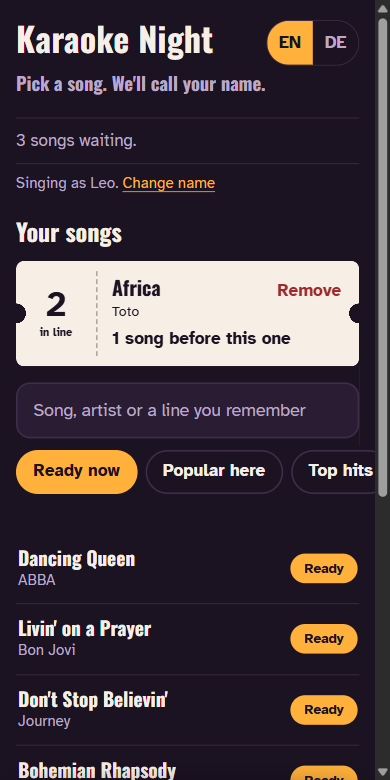
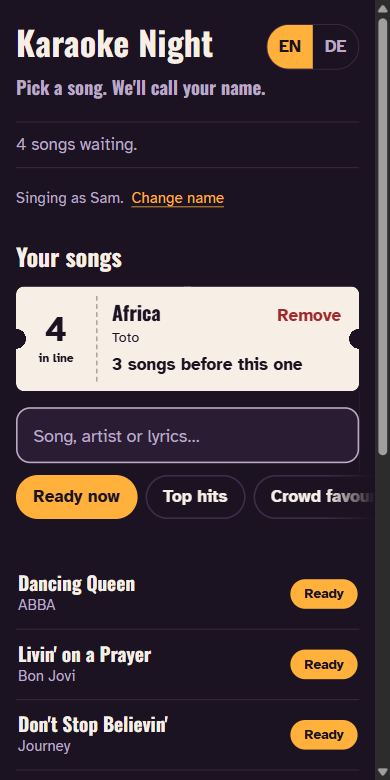
docs: changelog, bug report form, security notes and fresh screenshots for 1.2.0
- CHANGELOG.md for venues deciding whether to update (1.0.0 to 1.2.0).
- An issue form that asks for version and setup, and warns to strip the PIN,
  Wi-Fi password and guests' names from logs before posting.
- SECURITY.md: the per-night staff token and what lockouts now affect, the
  2 MB request limit, the per-phone cap, lint and accessibility checks, and how
  to verify a release (SHA256SUMS.txt, gh attestation verify).
- README: the PIN rule, where to read changes, the new development checks.
- Screenshots retaken: the TV showed guests on port 5000, which is now the
  private TV port.
- Staff page: text fields, selects and the colour picker get the readable
  outline too, and the logo picker no longer pushes the page sideways on phones.

diff --git a/static/admin.css b/static/admin.css
@@ -16,7 +16,7 @@ h2 { font: 400 1.4rem var(--display-font); margin: 24px 0 6px; }
 .lock { margin-top: 18vh; }
 .lock p { color: var(--muted); }
 .lock form { display: flex; gap: 10px; }
-.lock input { flex: 1; min-width: 0; min-height: 56px; font-size: 1.6rem; letter-spacing: .3em; text-align: center; border-radius: var(--radius); border: 2px solid var(--line); background: var(--surface); }
+.lock input { flex: 1; min-width: 0; min-height: 56px; font-size: 1.6rem; letter-spacing: .3em; text-align: center; border-radius: var(--radius); border: 2px solid var(--muted); background: var(--surface); }
 .lock input:focus { border-color: var(--accent); }
 
 .stage { background: var(--surface); border-radius: var(--radius); padding: 16px; margin-top: 12px; }
@@ -54,7 +54,7 @@ details.settings { background: var(--surface); border-radius: var(--radius); pad
 details.settings summary { font: 400 1.4rem var(--display-font); padding: 12px 0; min-height: 48px; cursor: pointer; }
 .field { display: grid; grid-template-columns: minmax(0, 1fr); gap: 4px; margin: 0 0 14px; }  /* no wide child (the logo) pushes it off the screen */
 .field label { font-weight: 700; }
-select { font: inherit; color: inherit; min-height: 48px; border-radius: 12px; border: 2px solid var(--line); background: var(--bg); padding: 0 10px; }
+select { font: inherit; color: inherit; min-height: 48px; border-radius: 12px; border: 2px solid var(--muted); background: var(--bg); padding: 0 10px; }
 select:focus { border-color: var(--accent); }
 .check { display: flex; align-items: center; gap: 12px; min-height: 44px; }
 .check input { width: 22px; height: 22px; accent-color: var(--accent); margin: 0; }
@@ -71,10 +71,10 @@ ul.care { list-style: none; margin: 6px 0 0; padding: 0; }
 .care .acts .btn { flex: 0 1 auto; min-height: 44px; padding: 0 14px; }
 .care small { color: var(--muted); display: block; }
 .care .empty { color: var(--muted); }
-input.text { font: inherit; color: inherit; min-height: 48px; border-radius: 12px; border: 2px solid var(--line); background: var(--bg); padding: 0 12px; }
+input.text { font: inherit; color: inherit; min-height: 48px; border-radius: 12px; border: 2px solid var(--muted); background: var(--bg); padding: 0 12px; }
 input.text:focus { border-color: var(--accent); }
 input.icon { width: 5.5em; font-size: 1.4rem; text-align: center; }
-input[type="color"] { flex: none; width: 72px; min-height: 56px; padding: 4px; border-radius: 12px; border: 2px solid var(--line); background: var(--bg); }
+input[type="color"] { flex: none; width: 72px; min-height: 56px; padding: 4px; border-radius: 12px; border: 2px solid var(--muted); background: var(--bg); }
 /* each look previews itself: the tile carries the look, so its colours and display face are that look's own */
 fieldset.looks { border: 0; padding: 0; margin: 0 0 14px; }
 fieldset.looks legend { font-weight: 700; padding: 0; margin-bottom: 6px; }
@@ -97,7 +97,7 @@ fieldset.nights legend { font-weight: 700; padding: 0; margin-bottom: 4px; }
 #nights { list-style: none; margin: 6px 0 10px; padding: 0; }
 #nights li { display: flex; flex-wrap: wrap; align-items: center; gap: 8px 12px; padding: 8px 0; border-bottom: 1px solid var(--line); }
 #nights .btn, #addNight { flex: 0 1 auto; min-height: 44px; padding: 0 16px; }
-fieldset.logos { border: 0; padding: 0; margin: 0 0 14px; display: grid; gap: 6px; }
+fieldset.logos { border: 0; padding: 0; margin: 0 0 14px; display: grid; gap: 6px; grid-template-columns: minmax(0, 1fr); }  /* not as wide as the file picker: that pushed the page sideways on phones */
 fieldset.logos legend { font-weight: 700; padding: 0; margin-bottom: 4px; }
 fieldset.logos label { font-weight: 700; margin-top: 6px; }
 #logos { list-style: none; margin: 0; padding: 0; }

diff --git a/SECURITY.md b/SECURITY.md
@@ -19,9 +19,13 @@ downloads and private print pages, and always removes the Wi-Fi password. A reve
 
 - **Staff page:** every staff action needs the staff PIN. Setup creates a random 6-digit PIN.
   - Startup backs up and replaces an existing default PIN. The replacement is read locally from `settings.json`.
+  - After a correct PIN the phone gets a random staff token for that night instead of keeping the PIN. The app keeps
+    only its SHA-256 digest, in memory; it expires at the 6 am changeover or when the app restarts.
   - Five wrong PINs lock that device out for a minute.
-  - More than 30 wrong PINs over the internet in 10 minutes close the staff page to the internet for everyone, for up to 10 minutes. Staff on the laptop or the venue's own Wi-Fi can still get in.
-  - The default PIN `1234` is refused over the internet.
+  - More than 30 wrong PINs over the internet in 10 minutes close the staff page to the internet for anyone not
+    already unlocked, for up to 10 minutes. Staff phones unlocked tonight, the laptop and the venue's own Wi-Fi still get in.
+  - The default PIN `1234` is refused over the internet, and a blank or shorter-than-4 PIN is refused everywhere
+    (and replaced at startup, like `1234`).
 - **The TV:** only the laptop itself can start and finish songs. Those requests must come from the laptop's own address, carry JSON (which other websites can't send without asking), and name the laptop by address. That last check blocks DNS rebinding. Requests that arrive through the tunnel never count as the laptop. A TV on a separate laptop reaches the local TV port only through an SSH port forward whose key is limited to that port (`restrict,port-forwarding,permitopen`, a forced command, no passwords; see `install-autostart.ps1 -TvLaptopKey`), so the app's address checks are unchanged. With `Setup-Pub-PC.bat` the forward is served by the app itself (`tv_link.py`, port 5022, private networks only): no Windows login, shell or passwords; one Ed25519 key, paired by a single-use ticket that expires after 24 hours (stored only as a hash), may open a channel to the local TV port and nothing else. The laptop pins the PC's host key from the pairing file. Only one TV screen at a time may run the queue.
 - **Guests:**
   - Public queue changes require a cryptographically random server-issued guest token. Only its SHA-256 digest is
@@ -32,7 +36,8 @@ downloads and private print pages, and always removes the Wi-Fi password. A reve
   - Expensive lookups have bounded concurrency and caching. Submission and credential recovery endpoints are rate-limited.
   - Guests can only remove their own songs.
   - Names lose control and invisible characters.
-  - The queue holds at most 60 songs.
+  - The queue holds at most 60 songs, and one phone at most three people's songs.
+  - Request bodies over 2 MB are refused before they are read.
   - Song wishes can't carry commands to the song maker.
 - **Pages:** a strict Content Security Policy lets the pages run only their own scripts (and YouTube's player on the TV), and no other site may put them in a frame. Guests' text is always inserted as text, never as HTML.
 - **Secrets:** `settings.json` (PIN, Wi-Fi password) is never committed: it's in `.gitignore`. The Wi-Fi password is only sent through the local TV listener, never through the guest listener or internet link.
@@ -42,7 +47,7 @@ downloads and private print pages, and always removes the Wi-Fi password. A reve
 ## Known limits
 
 - On the venue's Wi-Fi the pages use plain `http://`, so someone listening on an open Wi-Fi can read the staff PIN when staff type it. Use a Wi-Fi with a password, or the internet link (`https://`), for the staff page.
-- Over the internet link, every guest on the venue's Wi-Fi shares one public address. Five wrong PINs from one prankster lock that address out for a minute, staff included; staff can use the laptop meanwhile.
+- Over the internet link, every guest on the venue's Wi-Fi shares one public address. Five wrong PINs from one prankster lock that address out for a minute for anyone who isn't unlocked yet; staff phones unlocked earlier that night are not affected.
 - Guest/staff phones now use 5001. Local 5000 is loopback-only. Keep LAN 5001 limited to private networks.
 - The free internet tunnel has no availability guarantee and changes hostname on recreation. Prepared audio stays
   local. Guests must rescan after an address change and can recover tickets using their private recovery code.
@@ -53,7 +58,8 @@ downloads and private print pages, and always removes the Wi-Fi password. A reve
 
 Every push is checked by:
 
-- **Tests:** on Windows, macOS and Linux.
+- **Tests:** on Windows, macOS and Linux, including browser tests with axe-core accessibility checks.
+- **Lint:** ruff (Python), a syntax check of every page script, and PSScriptAnalyzer (the PowerShell installers).
 - **Bandit:** Python security lint.
 - **pip-audit:** known vulnerabilities in the pinned packages.
 - **gitleaks:** secrets in the history.
@@ -62,3 +68,7 @@ Every push is checked by:
 - **OpenSSF Scorecard:** how the repository itself is set up.
 
 Dependabot proposes updates every week.
+
+Releases are built by GitHub Actions only from a tag on `main` that passes the tests. Each release lists the SHA-256
+of its files in `SHA256SUMS.txt`, and carries signed build provenance you can check with
+`gh attestation verify Setup-Pub-PC.bat -R Joshi595/pub-karaoke`.

diff --git a/CHANGELOG.md b/CHANGELOG.md
@@ -1,0 +1,41 @@
+# Changelog
+
+What changed for venues in each release. Updating keeps your `settings.json`, songs, logos and backups.
+
+## 1.2.0 (2026-11-27)
+
+**Safer nights**
+- A guest's wish for a song whose artist and title have no Latin letters (Russian, Japanese, …) could delete the whole song library while it was being made. Such songs now get a safe folder name of their own.
+- A `settings.json` that can't be read (a typo in Notepad, a power cut) no longer stops the app: it is kept aside and the newest backup is used. Values of the wrong kind fall back to their defaults with a warning; a blank PIN never opens the staff page.
+- Saved files are flushed to disk before they replace the old ones, and the TV no longer rewrites the queue file every second.
+- When a guest picks an unmade song while the laptop is making one in the background, the TV and the phones no longer freeze for up to half a minute.
+- The internet link restarts after any error; a taken TV-link port no longer stops the app.
+- Song maker: a full graphics card stops the batch instead of failing every song after it, a passing network problem no longer marks a song "video only", and a cover that won't download keeps the song.
+
+**Staff**
+- After one correct PIN, a staff phone stays unlocked for the night without keeping the PIN. Someone guessing PINs through the TV's QR address can no longer lock out staff who are already in.
+- "Saved." after every change; the queue no longer redraws under your finger; removing a special night takes two taps; an unreadable accent colour is refused with a warning. Fixed the page scrolling sideways on phones.
+
+**Guests**
+- The search box and other fields are clearly outlined in every look; "Loading songs…" while the list arrives; no more double-added songs; Remove takes two taps.
+- The phone buzzes and the tab title changes when it's your turn; screen readers announce it once. Polling pauses while the phone is locked.
+- Clearer messages, a Copy button for the recovery code, and fixes for older iPhones.
+- One phone can hold songs for three people, but can no longer fill the queue alone.
+
+**TV and table cards**
+- A song that won't play says so to the singer instead of silently calling the next name.
+- The Wi-Fi QR code works for open networks; German possessives read "Hans' Song"; a tidier lobby.
+
+**Checks**
+- Every push runs a Python linter, a JavaScript syntax check, a PowerShell analyzer and axe-core accessibility checks of every page. Every look is tested for readable contrast.
+- Releases are built only from tested tags on `main`, with `SHA256SUMS.txt` and signed build provenance: `gh attestation verify Setup-Pub-PC.bat -R Joshi595/pub-karaoke`.
+
+## 1.1.0 (2026-11-26)
+
+- The TV can be a laptop at the TV, linked to the pub PC: `Setup-Pub-PC.bat` on the PC, then the file it makes on the laptop.
+- A separate guest listener, server-issued guest tickets with a private recovery code, daily backups and autostart on the pub PC.
+- Tonight's theme, the Halloween look, logos per look, special nights and *Start again*.
+
+## 1.0.0 (2026-10-30)
+
+First public release: guests pick songs on their phones, songs are made on demand with lyrics timed to the singing, five looks, English and German.

diff --git a/README.md b/README.md
@@ -78,6 +78,8 @@ cd pub-karaoke
 
 **First start:** setup creates `settings.json` with a random **staff PIN**. Open that file locally in a text editor to read or change it. Staff open `/admin` using the guest/internet address and enter it there. An existing default PIN is backed up and replaced automatically on startup.
 
+**What's new:** each version's changes are in [CHANGELOG.md](CHANGELOG.md). Updating keeps your settings, songs and logos.
+
 **The full song list:** at first, guests can only find the songs in `starter-songs.txt`. To let them search about 90,000 songs, download the CSV song list from [KaraFun's song list page](https://www.karafun.com/karaoke-song-list.html) and save it as `library/karafuncatalog.csv`, then restart. Download it again now and then for new songs.
 
 ## Make it yours
@@ -119,7 +121,7 @@ To force a look for a song, add it after the title: `Nena - 99 Luftballons | neo
 
 | Setting | Meaning |
 |---|---|
-| `pin` | Staff PIN for `/admin`. *File only.* |
+| `pin` | Staff PIN for `/admin`, at least 4 characters. Staff enter it once per night on each phone. *File only.* |
 | `pub_name`, `look`, `accent`, `icon`, `shelves` | Your venue's name and look (see above). |
 | `logos` | The logos next to `settings.json`, each for every look or for one look: `[{"file": "logo-….jpg", "look": "halloween"}]`. Added and removed on the staff page. |
 | `nights` | Special nights: `[{"date": "2026-12-31", "look": "neon", "yearly": true}]`. Set on the staff page under *Venue look*. |
@@ -262,8 +264,10 @@ The tests need no graphics card, songs or network.
 
 For tests without browser tooling use `python -m pytest -q --ignore=test_browser.py`. Browser regressions use
 synthetic audio: install `requirements-test.txt`, run `python -m playwright install chromium`, then
-`python -m pytest -q test_browser.py`. Both suites run in CI. See the dedicated-PC guide for actual TV/audio and
-CPU/GPU checks that still need a rehearsal at the venue.
+`python -m pytest -q test_browser.py`; it includes axe-core accessibility checks of every page. Both suites run in CI,
+as do `pipx run ruff check .` (settings in `pyproject.toml`), `node --check` on every page script and PSScriptAnalyzer
+on the PowerShell installers. See the dedicated-PC guide for actual TV/audio and CPU/GPU checks that still need a
+rehearsal at the venue.
 
 | Path | What it is |
 |---|---|
